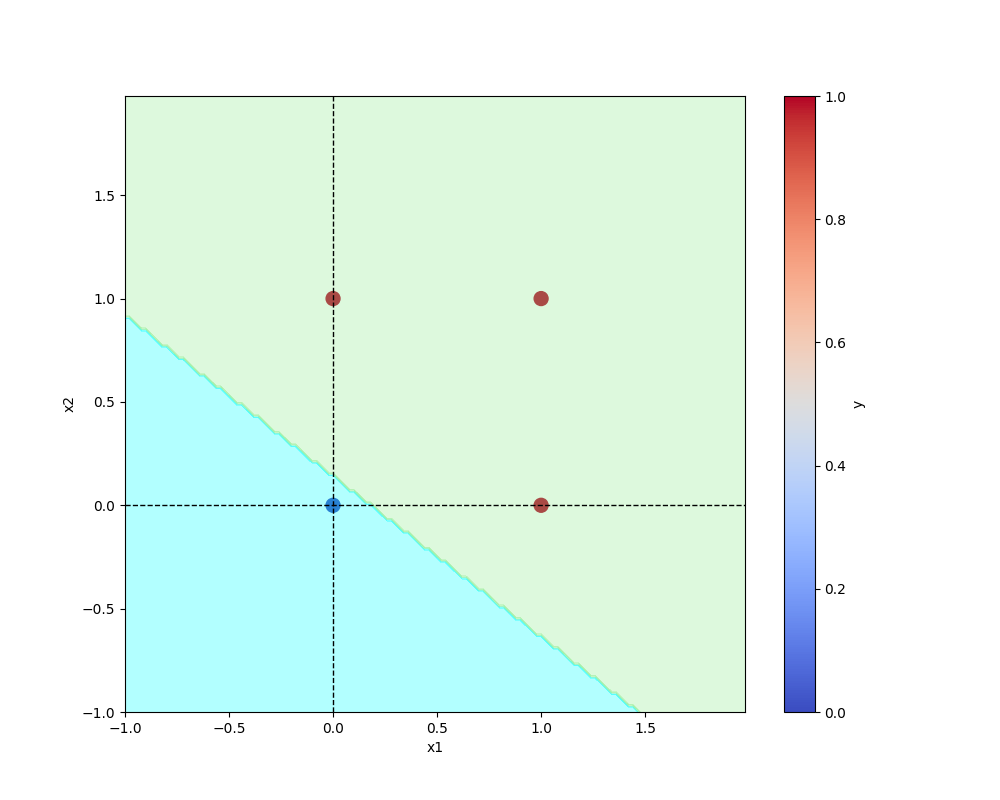
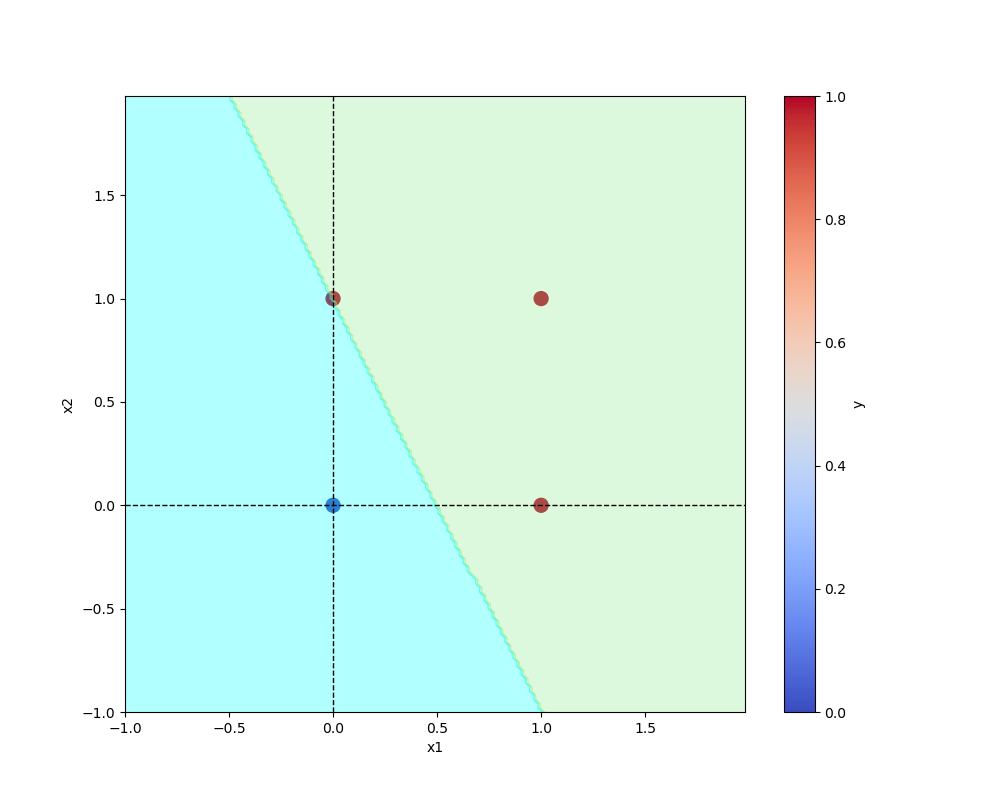
and model added

Changed region(s): [[0.124, 0.0938, 0.465, 0.7188], [0.465, 0.7188, 0.651, 0.9062], [0.062, 0.5, 0.093, 0.5312]]

diff --git a/and.py b/and.py
@@ -1,0 +1,36 @@
+from utils.all_utils import prepare_data, save_plot
+from utils.model import Perceptron
+import pandas as pd
+
+
+def main(data, modelName, plotName, eta, epochs):
+    df_AND = pd.DataFrame(data)
+    ## Claculating AND_GATE
+    X, y = prepare_data(df_AND)
+
+    model = Perceptron(eta=eta, epochs=epochs)
+    model.fit(X, y)
+
+    _ = model.total_loss()
+
+    ## Saving model
+
+    model.save(filename="and.model", model_dir="model")
+    save_plot(df_AND, model, filename='and.png')
+
+
+
+
+if __name__ == '__main__':
+    AND = {
+        "x1": [0,0,1,1],
+        "x2": [0,1,0,1],
+        "y" : [0,0,0,1]
+    }
+    ETA= 0.3
+    EPOCHS= 10
+    main(data=AND, modelName="and.model", plotName="and.png", eta=ETA, epochs=EPOCHS)
+
+
+
+
